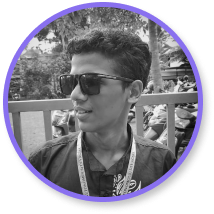
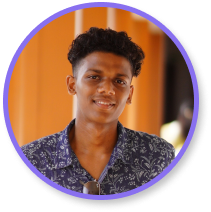
images change in the hero section

diff --git a/src/containers/header/header.css b/src/containers/header/header.css
@@ -12,6 +12,10 @@
   justify-content: flex-end;
 }
 
+.header-graphics img{
+  max-width: 350px;
+}
+
 .header-content {
   display: flex;
   flex-direction: column;
@@ -103,7 +107,7 @@
     padding: 4rem 6rem;
   }
   .header-graphics img{
-    max-width: 450px;
+    max-width: 300px;
   }
   .header h1 {
     font-size: 48px;
@@ -170,7 +174,7 @@
   }
 
   .header-graphics img {
-    height: 60%;
+    max-width: 200px;
   }
   .header h1 {
     font-size: 38px;

diff --git a/src/containers/header/Header.jsx b/src/containers/header/Header.jsx
@@ -1,7 +1,7 @@
 import React from "react";
 import "./header.css";
 import { Navbar } from "../../components";
-import heroImg from "../../assets/heroImg.svg";
+import heroImg from "../../assets/hero-img.png";
 import folderOutline from "../../assets/folder-outline.svg";
 import chatOutline from "../../assets/chatbubbles-outline.svg";
 import twitter from "../../assets/twitter.svg";
